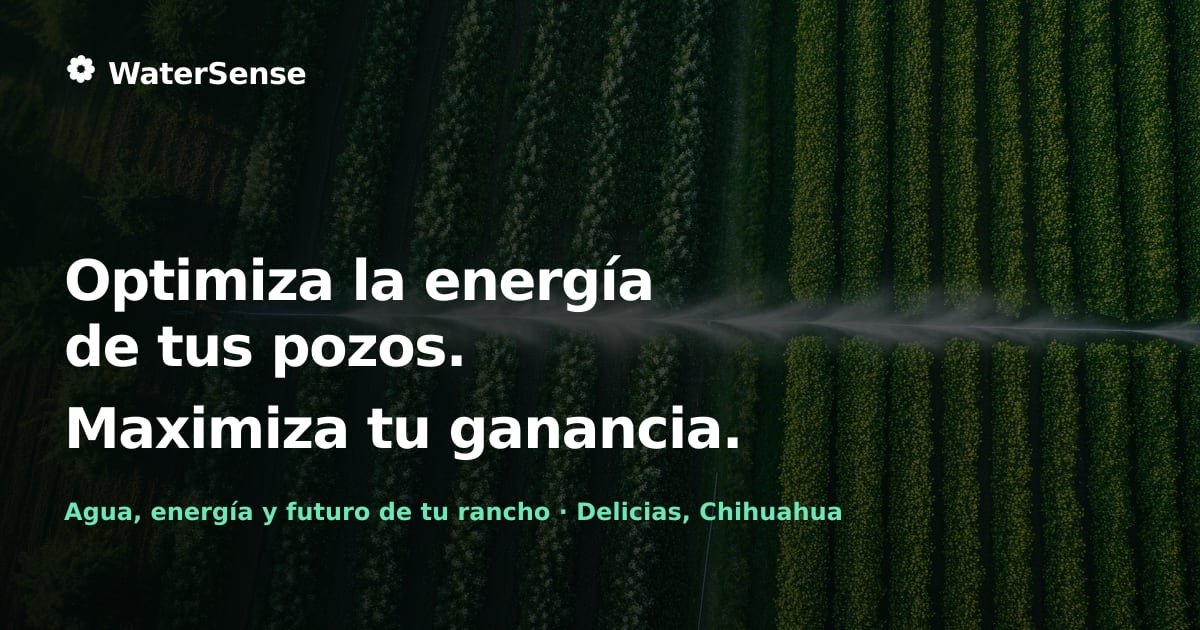
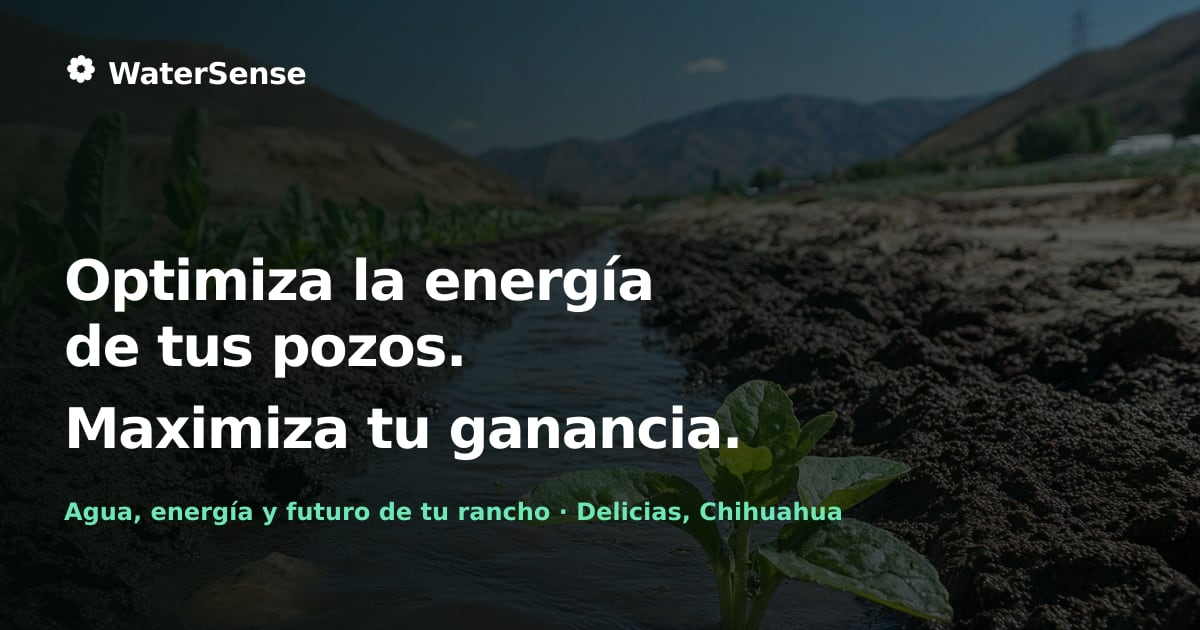
Hero: nueva imagen (riego por surcos) comprimida + overlay y OG
- hero.jpg nueva comprimida 2.6MB → 497KB (2560px).
- Overlay un poco más oscuro (la foto es más clara, con cielo) para que
  el titular blanco se lea bien en escritorio y móvil.
- Imagen OG regenerada con la foto nueva.

diff --git a/src/app/globals.css b/src/app/globals.css
@@ -95,10 +95,10 @@ button {
 .hero-overlay {
   background-image: linear-gradient(
       100deg,
-      rgba(0, 0, 0, 0.68) 0%,
-      rgba(0, 0, 0, 0.48) 36%,
-      rgba(0, 0, 0, 0.12) 64%,
-      rgba(0, 0, 0, 0) 100%
+      rgba(0, 0, 0, 0.74) 0%,
+      rgba(0, 0, 0, 0.56) 36%,
+      rgba(0, 0, 0, 0.2) 64%,
+      rgba(0, 0, 0, 0.04) 100%
     ),
     url("/landing/hero.jpg");
   background-size: cover;
@@ -110,12 +110,12 @@ button {
   .hero-overlay {
     background-image: linear-gradient(
         180deg,
-        rgba(0, 0, 0, 0.74) 0%,
-        rgba(0, 0, 0, 0.58) 44%,
-        rgba(0, 0, 0, 0.45) 100%
+        rgba(0, 0, 0, 0.78) 0%,
+        rgba(0, 0, 0, 0.62) 44%,
+        rgba(0, 0, 0, 0.5) 100%
       ),
       url("/landing/hero.jpg");
-    background-position: 50% 36%;
+    background-position: 50% 50%;
   }
 }
 
